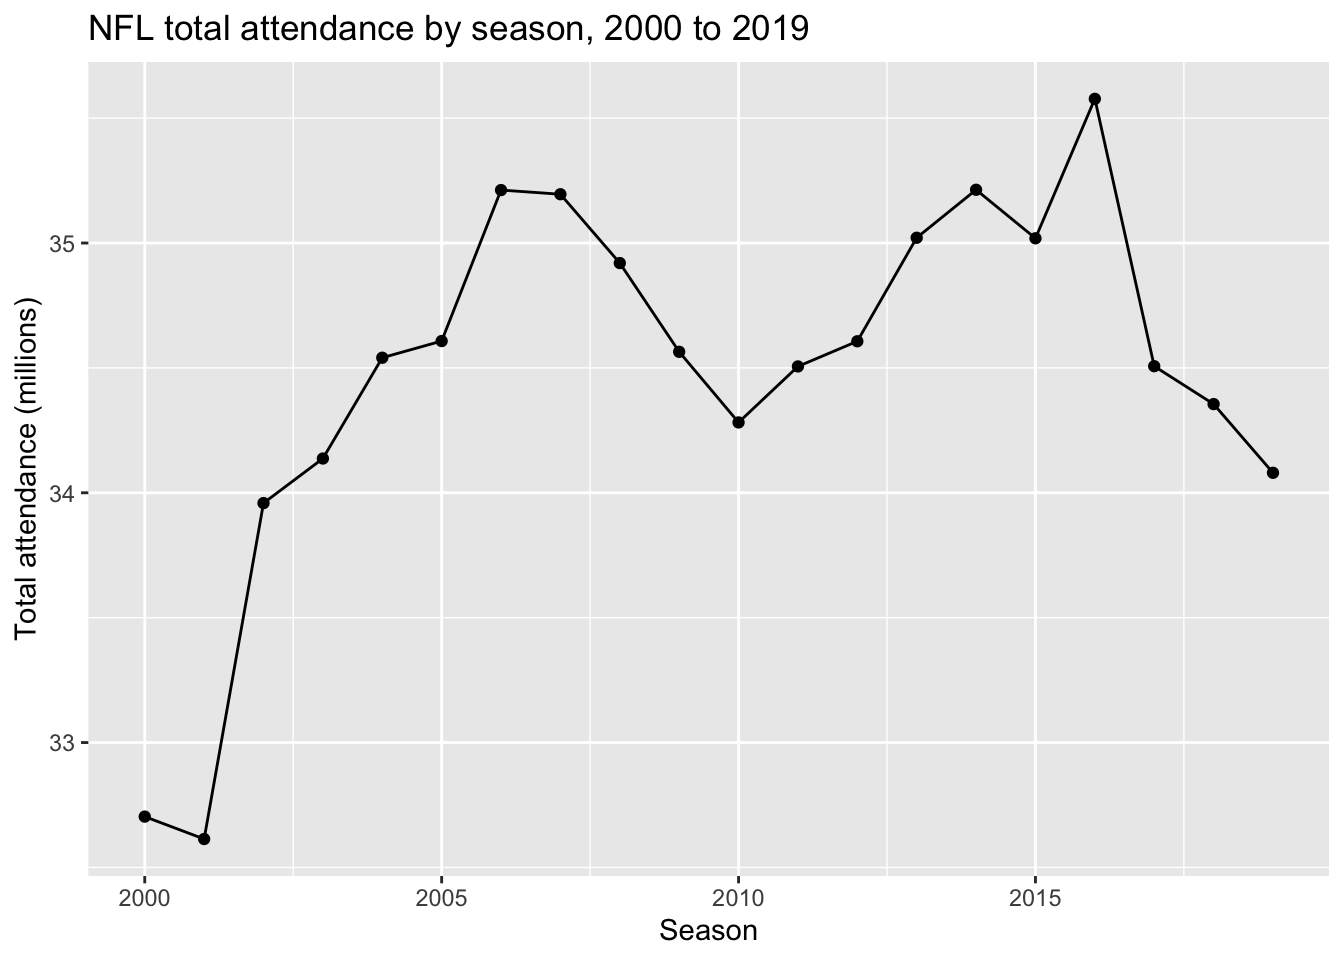
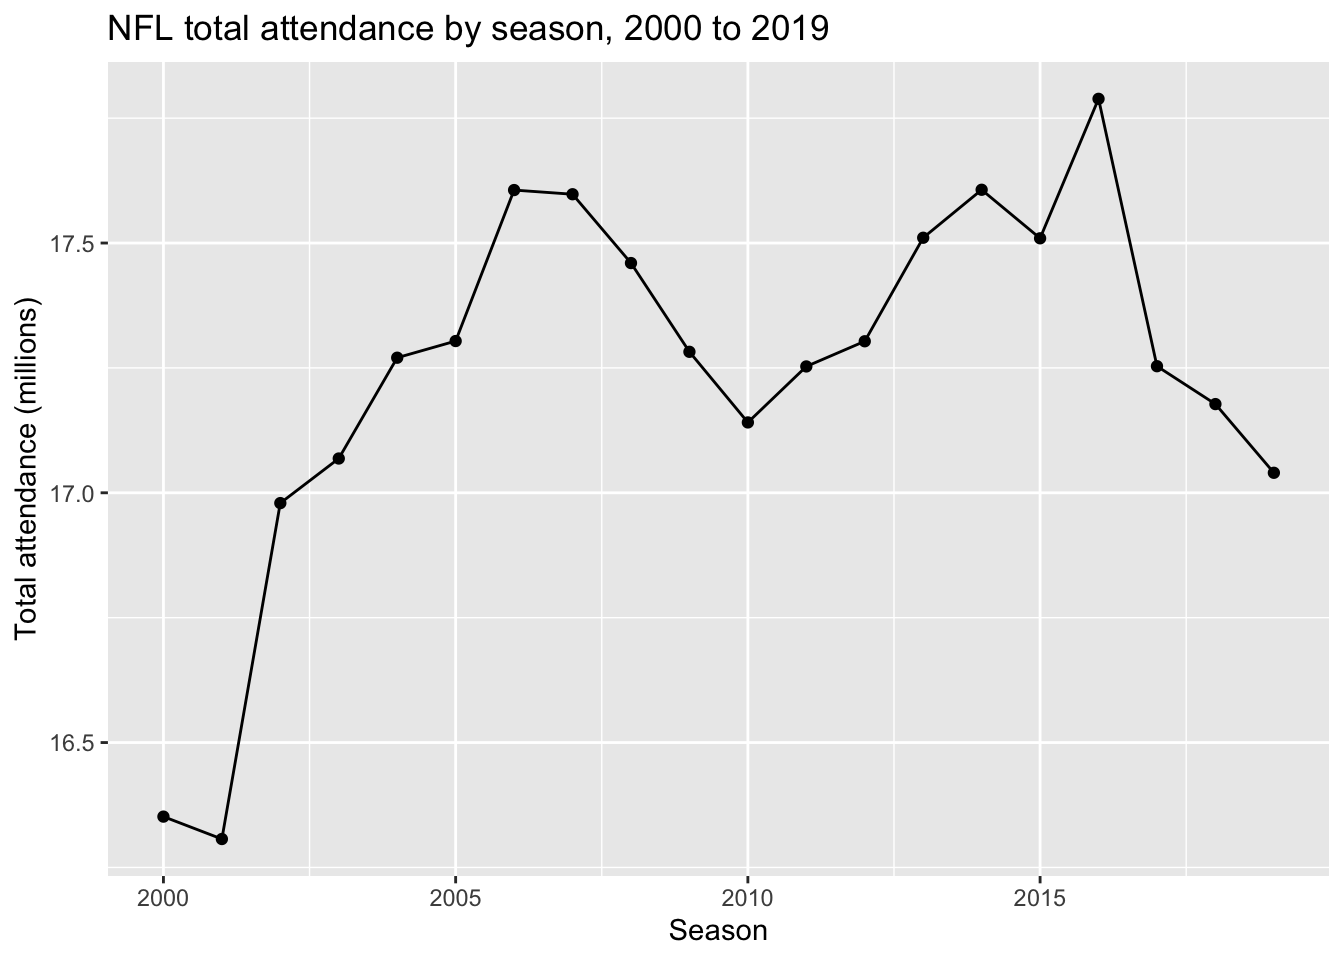
Final Changes

diff --git a/docs/nfl.html b/docs/nfl.html
@@ -387,14 +387,13 @@ pre > code.sourceCode > span > a:first-child::before { text-decoration: underlin
 <span id="cb1-3"><a href="#cb1-3" aria-hidden="true" tabindex="-1"></a>attendance <span class="ot">&lt;-</span> readr<span class="sc">::</span><span class="fu">read_csv</span>(<span class="st">'https://raw.githubusercontent.com/rfordatascience/tidytuesday/main/data/2020/2020-02-04/attendance.csv'</span>)</span>
 <span id="cb1-4"><a href="#cb1-4" aria-hidden="true" tabindex="-1"></a></span>
 <span id="cb1-5"><a href="#cb1-5" aria-hidden="true" tabindex="-1"></a>attendance <span class="sc">|&gt;</span></span>
-<span id="cb1-6"><a href="#cb1-6" aria-hidden="true" tabindex="-1"></a>  <span class="fu">filter</span>(week <span class="sc">==</span> <span class="dv">1</span>) <span class="sc">|&gt;</span></span>
-<span id="cb1-7"><a href="#cb1-7" aria-hidden="true" tabindex="-1"></a>  <span class="fu">group_by</span>(year) <span class="sc">|&gt;</span></span>
-<span id="cb1-8"><a href="#cb1-8" aria-hidden="true" tabindex="-1"></a>  <span class="fu">summarize</span>(<span class="at">league_total =</span> <span class="fu">sum</span>(total)) <span class="sc">|&gt;</span></span>
-<span id="cb1-9"><a href="#cb1-9" aria-hidden="true" tabindex="-1"></a>  <span class="fu">ggplot</span>(<span class="fu">aes</span>(<span class="at">x =</span> year, <span class="at">y =</span> league_total <span class="sc">/</span> <span class="fl">1e6</span>)) <span class="sc">+</span></span>
-<span id="cb1-10"><a href="#cb1-10" aria-hidden="true" tabindex="-1"></a>  <span class="fu">geom_line</span>() <span class="sc">+</span></span>
-<span id="cb1-11"><a href="#cb1-11" aria-hidden="true" tabindex="-1"></a>  <span class="fu">geom_point</span>() <span class="sc">+</span></span>
-<span id="cb1-12"><a href="#cb1-12" aria-hidden="true" tabindex="-1"></a>  <span class="fu">labs</span>(<span class="at">x =</span> <span class="st">"Season"</span>, <span class="at">y =</span> <span class="st">"Total attendance (millions)"</span>,</span>
-<span id="cb1-13"><a href="#cb1-13" aria-hidden="true" tabindex="-1"></a>       <span class="at">title =</span> <span class="st">"NFL total attendance by season, 2000 to 2019"</span>)</span></code></pre></div><button title="Copy to Clipboard" class="code-copy-button"><i class="bi"></i></button></div>
+<span id="cb1-6"><a href="#cb1-6" aria-hidden="true" tabindex="-1"></a>  <span class="fu">group_by</span>(year) <span class="sc">|&gt;</span></span>
+<span id="cb1-7"><a href="#cb1-7" aria-hidden="true" tabindex="-1"></a>  <span class="fu">summarize</span>(<span class="at">league_total =</span> <span class="fu">sum</span>(weekly_attendance, <span class="at">na.rm =</span> <span class="cn">TRUE</span>) <span class="sc">/</span> <span class="dv">2</span>) <span class="sc">|&gt;</span></span>
+<span id="cb1-8"><a href="#cb1-8" aria-hidden="true" tabindex="-1"></a>  <span class="fu">ggplot</span>(<span class="fu">aes</span>(<span class="at">x =</span> year, <span class="at">y =</span> league_total <span class="sc">/</span> <span class="dv">1000000</span>)) <span class="sc">+</span></span>
+<span id="cb1-9"><a href="#cb1-9" aria-hidden="true" tabindex="-1"></a>  <span class="fu">geom_line</span>() <span class="sc">+</span></span>
+<span id="cb1-10"><a href="#cb1-10" aria-hidden="true" tabindex="-1"></a>  <span class="fu">geom_point</span>() <span class="sc">+</span></span>
+<span id="cb1-11"><a href="#cb1-11" aria-hidden="true" tabindex="-1"></a>  <span class="fu">labs</span>(<span class="at">x =</span> <span class="st">"Season"</span>, <span class="at">y =</span> <span class="st">"Total attendance (millions)"</span>,</span>
+<span id="cb1-12"><a href="#cb1-12" aria-hidden="true" tabindex="-1"></a>       <span class="at">title =</span> <span class="st">"NFL total attendance by season, 2000 to 2019"</span>)</span></code></pre></div><button title="Copy to Clipboard" class="code-copy-button"><i class="bi"></i></button></div>
 </details>
 <div class="cell-output-display">
 <div>
@@ -404,7 +403,8 @@ pre > code.sourceCode > span > a:first-child::before { text-decoration: underlin
 </div>
 </div>
 </div>
-<p><strong>Data source:</strong> <a href="https://github.com/rfordatascience/tidytuesday/blob/main/data/2020/2020-02-04/readme.md">TidyTuesday, February 4, 2020</a>. Original data: Sports Reference LLC. (2020). <em>NFL attendance and team standings, 2000 to 2019</em>. Pro Football Reference. https://www.pro-football-reference.com/years/2019/attendance.htm</p>
+<p><strong>Data source:</strong> <a href="https://github.com/rfordatascience/tidytuesday/blob/main/data/2020/2020-02-04/readme.md">TidyTuesday, February 4, 2020</a>.</p>
+<p>Original data: Sports Reference LLC. (2020). <em>NFL attendance and team standings, 2000 to 2019</em>. Pro Football Reference. https://www.pro-football-reference.com/years/2019/attendance.htm</p>
 
 
 

diff --git a/docs/about.html b/docs/about.html
@@ -269,11 +269,21 @@ ul.task-list li input[type="checkbox"] {
     <a class="nav-link active" href="./about.html" aria-current="page"> 
 <span class="menu-text">About</span></a>
   </li>  
-  <li class="nav-item">
-    <span class="nav-link">
-<span class="menu-text">tidydata.qmd</span>
-    </span>
+  <li class="nav-item dropdown ">
+    <a class="nav-link dropdown-toggle" href="#" id="nav-menu-data-viz" role="link" data-bs-toggle="dropdown" aria-expanded="false">
+ <span class="menu-text">Data Viz</span>
+    </a>
+    <ul class="dropdown-menu" aria-labelledby="nav-menu-data-viz">    
+        <li>
+    <a class="dropdown-item" href="./bigtech.html">
+ <span class="dropdown-text">Big Tech Stocks</span></a>
   </li>  
+        <li>
+    <a class="dropdown-item" href="./nfl.html">
+ <span class="dropdown-text">NFL Attendance</span></a>
+  </li>  
+    </ul>
+  </li>
 </ul>
           </div> <!-- /navcollapse -->
             <div class="quarto-navbar-tools">
@@ -312,7 +322,7 @@ ul.task-list li input[type="checkbox"] {
 </header>
 
 
-<p>This is my public github site, created 9/28/26</p>
+<p>This is my public GitHub site, created September 28, 2026, as part of DS002R: Foundations of Data Science in R at Pomona College. The R code for this website is available in its <a href="https://github.com/walbey/walbey.github.io">GitHub repository</a>.</p>
 
 
 

diff --git a/docs/index.html b/docs/index.html
@@ -308,7 +308,7 @@ ul.task-list li input[type="checkbox"] {
   </div>
 </header><main class="content column-page" id="quarto-document-content">
 
-<p>I am an undergraduate student at Pomona College studying economics and Data Science. I play Safety for the Pomona-Pitzer Sagehens.</p>
+<p>I am an undergraduate student at Pomona College pursuing a major in Economics and a minor in Data Science. I play safety for the Pomona-Pitzer Sagehens. See the Data Viz drop-down menu for brief analyses of NFL attendance and Big Tech stock price datasets.</p>
 
 
 </main> 
